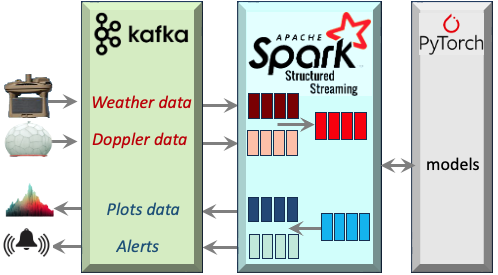
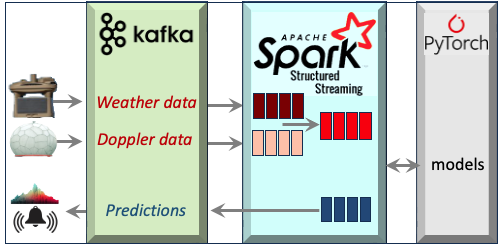
Refactored WeatherTracking class and update README.md with use case

diff --git a/README.md b/README.md
@@ -4,22 +4,22 @@
 ![Evaluation and tips for Kafka and Spark streaming](images/streaming.jpg)
 
 
-Evaluation of Apache Kafka and Spark streaming functionality in Scala with example for weather 
-forecast
+Evaluation of Apache Kafka and Spark streaming functionality in Scala with application to weather 
+tracking and storm forecast.
 
-## Reference
+## References
 - [Open Source Lambda Architecture for Deep Learning](http://patricknicolas.blogspot.com/2021/06/open-source-lambda-architecture-for.html)
 - [Boost real-time processing with Spark Structured Streaming](https://patricknicolas.blogspot.com/2023/11/boost-real-time-processing-with-spark.html)
+- [Tracking storms with Kafka/Spark streaming](https://patricknicolas.blogspot.com/2023/11/tracking-storms-with-kafkaspark.html)
 
 ## Environment
-| Package      | Version |
+| Library      | Version |
 |:-------------|:--------|
 | Scala        | 2.12.15 |
 | Apache Spark | 3.4.0   |
 | Apache Kafka | 3.4.0   |
 | Jackson ser  | 2.13.1  |
 | Kubernetes   | 16.0.0  |
-
 
 
 ## Updates
@@ -31,16 +31,16 @@ forecast
 | 10.30.2023 | 0.0.4   |
 
 
-## Packages
-| Package               | Description                                                 |
-|:----------------------|:------------------------------------------------------------|
-| util                  | Utilities classes                                           |
-| kafka                 | Classes related to Kafka service management                 |
-| kafka/prodcons        | Classes related to Kafka producer/consumer                  |
-| kafka/streams         | Classes related to Kafka streaming                          |
-| spark                 | Classes related to spark datasets and structured streaming  |
-| spark/etl             | Spark structured streaming for generic ETL                  |
-| spark/weatherTracking | Spark structured streaming application for tracking weather |
+## Scala packages
+| Package               | Description                                                              |
+|:----------------------|:-------------------------------------------------------------------------|
+| util                  | Utilities classes                                                        |
+| kafka                 | Classes related to Kafka service management                              |
+| kafka/prodcons        | Classes related to Kafka producer/consumer                               |
+| kafka/streams         | Classes related to Kafka streaming                                       |
+| spark                 | Classes related to spark datasets and structured streaming               |
+| spark/etl             | Spark structured streaming for generic ETL                               |
+| spark/weatherTracking | KafkaConnect/Spark structured streaming application for tracking weather |
 
 
 ## Deployment
@@ -52,6 +52,7 @@ From dockerfile for local deployment for a root directory 'myhome':
 ## Kafka 
 
 ### Launch script
+
 <pre>
 zookeeper-server-stop
 kafka-server-stop
@@ -88,6 +89,8 @@ ps -ef | grep kafka
 </pre>
 
 ### Command lines application
+For testing purpose, we deploy Apache Kafka on a local host listening to the default port 9092. 
+Here are some useful commands:
 
 To list topics for local deployment of Kafka service
 <pre>
@@ -112,9 +115,30 @@ kafka-console-consumer
 --bootstrap-server localhost:9092
 </pre>
 
-### Use case: Weather forecast
-Architecture
+### Use case: Storm forecast
+#### Overview
+This use case involves gathering data from weather stations and Doppler radars, then merging 
+these data sources based on location and time stamps. After consolidation, the unified data is sent to a model that forecasts potentially hazardous storms or tornadoes. The resulting predictions are then relayed back to the relevant authorities (such as emergency personnel, newsrooms, law enforcement, etc.) through Kafka.
+Implemented in *spark/weatherTracking* Package.
+
+![Collecting data](images/Weather-stations_Doppler-radars.png)
+
+
+#### Architecture
+he monitoring streaming pipeline is structured into three phases:
+Kafka queue.
+Spark's distributed structured streams.
+A variety of storm and tornado prediction models, developed using the PyTorch library and accessible via REST API.
+
+Data gathered from weather stations and Doppler radars is fed into the Spark engine, where both streams are combined and harmonized based on location and timestamp. This unified dataset is then employed for training the model. During the inference phase, predictions are streamed back to Kafka.
+
 ![Architecture](images/Kafka-Spark-Streaming.png)
+
+Illustration of encoding/decoding weather tracking data:
+![Encoder-decoder](images/Kafka-Spark-Encoder-Decoder.png)
+
+
+
 
 
 
